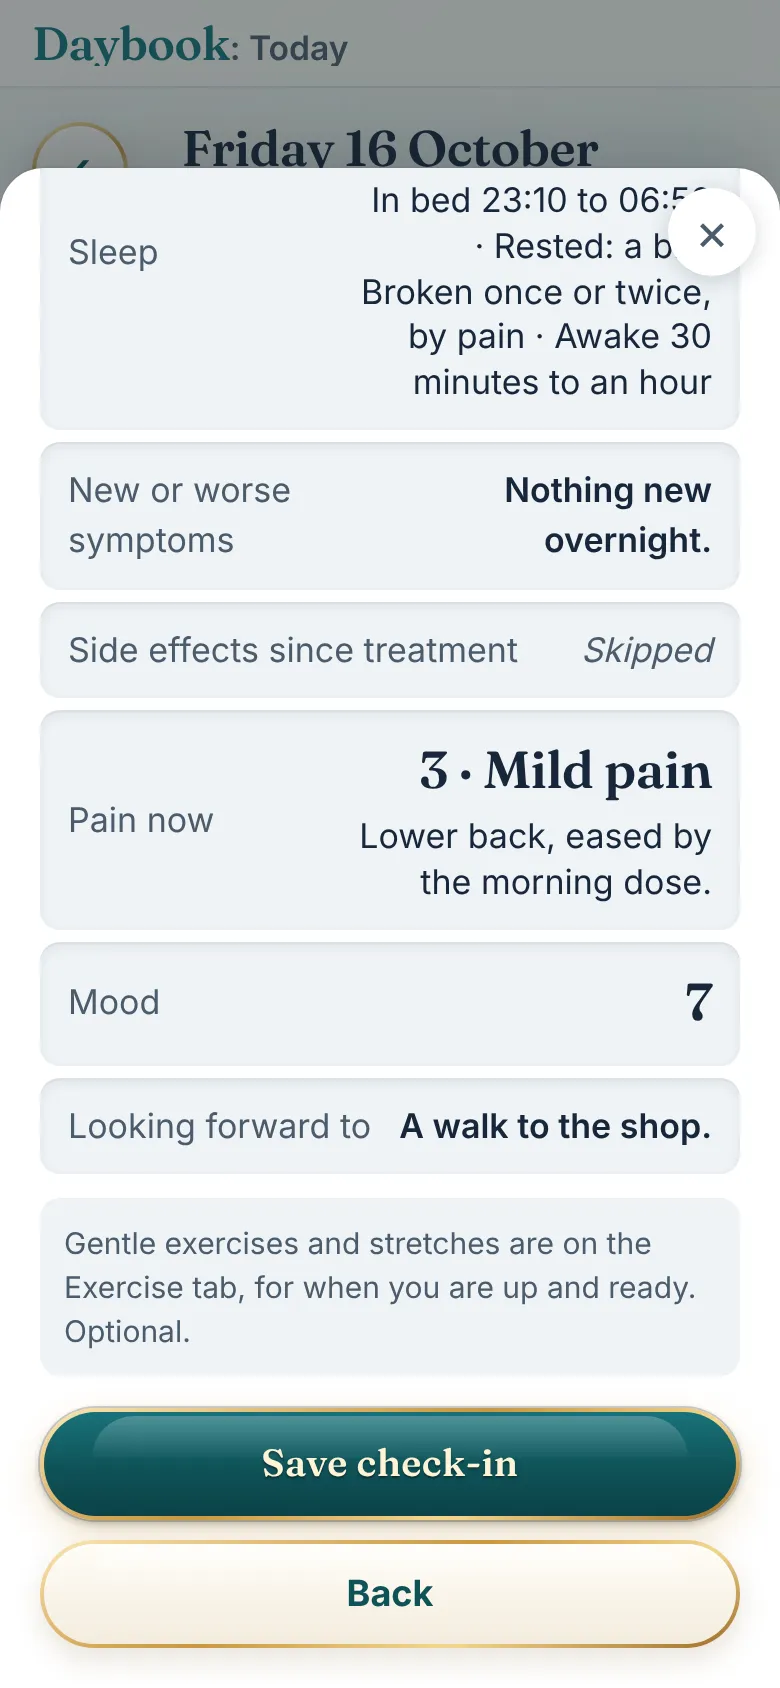
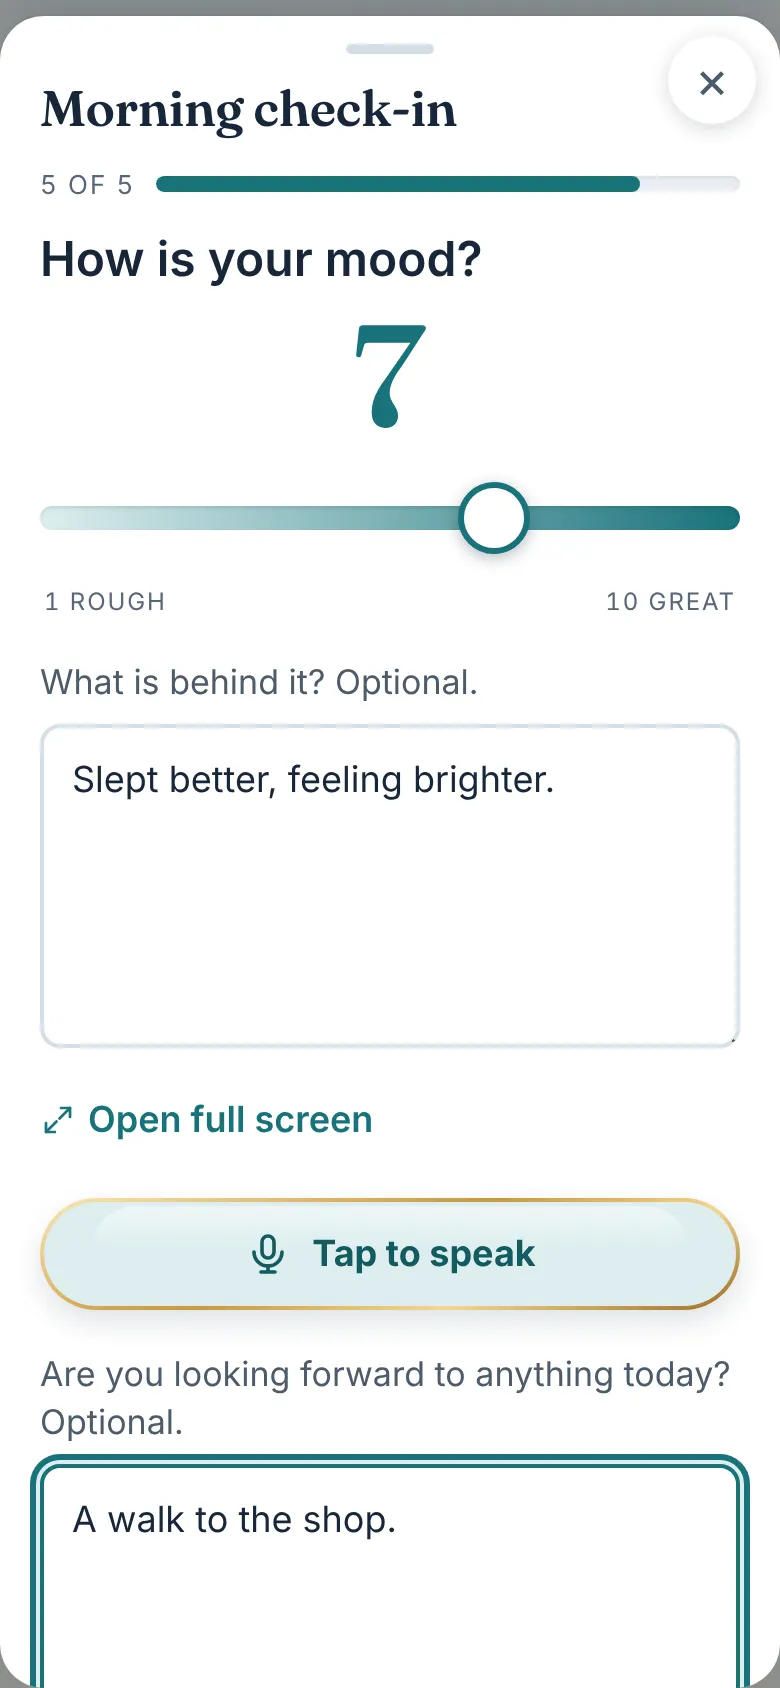
v366: looking forward asked on the morning mood screen, its own step removed
Claude-Session: https://claude.ai/code/session_019VY17MM1Pv81B6vJUTKu9b

Changed region(s): [[0.0, 0.0, 1.0, 0.5545], [0.0, 0.7085, 1.0, 1.0], [0.0615, 0.5545, 0.9538, 0.6777]]

diff --git a/scripts.js b/scripts.js
@@ -14,7 +14,7 @@ import {
   terminate, clearIndexedDbPersistence
 } from 'https://www.gstatic.com/firebasejs/10.12.2/firebase-firestore.js';
 
-const APP_VERSION = '365';
+const APP_VERSION = '366';
 /* The stage of the app (v132): 'Beta' until it is on the App Store and Google Play, then ''. Shown as a small pill on the
    opener and the four cover screens (never in the topbar, where it squeezed "Daybook: Treatment plan" off the end at 390px),
    after the version everywhere the version shows, and as one line on the App card and About
@@ -9424,10 +9424,11 @@ const CHECKIN_QUESTIONS = {
     /* only on the three days after a treatment session (v189): how bad each usual side effect is */
     { key: 'sidefx', kind: 'sidefx', q: 'Any side effects since treatment?' },
     { key: 'pain', kind: 'pain', nrs: true, q: 'Pain right now', low: '0 no pain', high: '10 worst imaginable', note: 'painNote' },
-    { key: 'mood', kind: 'slider', q: 'How is your mood?', low: '1 rough', high: '10 great', note: 'moodNote', noteQ: 'What is behind it? Optional.', notePh: 'e.g. a good night, a visitor coming, worried about tomorrow' },
+    { key: 'mood', kind: 'slider', q: 'How is your mood?', low: '1 rough', high: '10 great', note: 'moodNote', noteQ: 'What is behind it? Optional.', notePh: 'e.g. a good night, feeling flat, worried about tomorrow',
+      /* v366 (Mark): the day ahead asked on the same screen, so the two boxes are seen together and not answered twice */
+      note2: 'lookingForward', note2Q: 'Are you looking forward to anything today? Optional.', note2Ph: 'e.g. a walk in the garden, a visitor' },
     /* with Crohn's or colitis (v258): fasting today and which kind, one tap; asked about the day ahead, before what it holds */
-    { key: 'fast', kind: 'fast', pack: 'ibd', q: 'Fasting today?' },
-    { key: 'lookingForward', kind: 'text', q: 'What are you looking forward to today?', ph: 'e.g. a walk in the garden, a visitor' }
+    { key: 'fast', kind: 'fast', pack: 'ibd', q: 'Fasting today?' }
   ],
   evening: [
     /* the body first, then the words, then mood as the last score beside one good thing (v147, as the morning in v146) */
@@ -9602,7 +9603,7 @@ function nrsNoun(q) { return q && q.nrs === 'sickness' ? 'sickness' : q && q.nrs
    painNote / worstPainNote, shown after the score everywhere it shows, and in Notes for the team as a note. */
 const CHECKIN_NOTE_Q = 'Where is it, or anything else? Optional.';
 const CHECKIN_NOTE_PH = 'e.g. lower back, worse when I stand';
-function checkinNoteKeys(slot) { return (CHECKIN_QUESTIONS[slot] || []).filter((q) => q.note).map((q) => q.note); }
+function checkinNoteKeys(slot) { return (CHECKIN_QUESTIONS[slot] || []).flatMap((q) => [q.note, q.note2]).filter(Boolean); }
 /* Outside the gut (v145): joints, eyes, skin, mouth and, for Crohn's, around the bottom. Stored on the evening
    check-in as outside: [keys] ([] for none of these, null when skipped); asked when none was answered in the six days before. */
 const OUTSIDE_GUT = [
@@ -9778,10 +9779,12 @@ function checkinCard(c, inEntry) {
     else {
       const empty = v == null;
       const words = (q.note && c[q.note]) || (q.legacyNote && c[q.legacyNote]) || '';
+      const words2 = q.note2 && c[q.note2] ? CHECKIN_LABELS[q.note2] + ': ' + c[q.note2] : '';
       const nightLine = q.kind === 'sleep' ? nightSummary(c.night) : '';
       node = h('dd', { class: 'cc-v' + (empty && !nightLine ? ' is-empty' : ' is-num') }, empty ? (nightLine ? '' : 'Skipped') : v + '/10' + (q.nrs ? ' \u00b7 ' + painBandWord(v, nrsNoun(q)) : '') + (q.kind === 'sleep' && c.sleepHours != null ? ' \u00b7 ' + c.sleepHours + ' h' : ''),
         nightLine ? h('span', { class: 'vnote', text: nightLine }) : null,
-        words ? h('span', { class: 'vnote', text: words }) : null);
+        words ? h('span', { class: 'vnote', text: words }) : null,
+        words2 ? h('span', { class: 'vnote', text: words2 }) : null);
     }
     return h('div', { class: 'cc-row' }, h('dt', { class: 'cc-k', text: CHECKIN_LABELS[q.key] || q.key }), node);
   });
@@ -10181,7 +10184,7 @@ function openCheckin(slot, initialDay) {
       } else {
         const sl = sliderBlock(q, answers[q.key]);
         wrap.append(...sl.nodes);
-        let night = null, noteBox = null;
+        let night = null, noteBox = null, noteBox2 = null;
         if (q.kind === 'sleep') {
           night = nightBlock(answers.night, { tracker: isTrackerNight(nightEntry) ? nightEntry : null, ibd: packOn('ibd') });
           wrap.append(night.el);
@@ -10192,6 +10195,11 @@ function openCheckin(slot, initialDay) {
           noteBox.value = answers[q.note] || '';
           wrap.append(h('div', { class: 'wiz-note' }, h('p', { class: 'wiz-hint', text: q.noteQ || CHECKIN_NOTE_Q }), noteBox, speakButton(noteBox) || ''));
         }
+        if (q.note2) {
+          noteBox2 = h('textarea', { rows: '2', placeholder: q.note2Ph || '', 'aria-label': q.note2Q });
+          noteBox2.value = answers[q.note2] || '';
+          wrap.append(h('div', { class: 'wiz-note' }, h('p', { class: 'wiz-hint', text: q.note2Q }), noteBox2, speakButton(noteBox2) || ''));
+        }
         getVal = () => {
           if (night) {
             answers.night = night.value();
@@ -10201,6 +10209,7 @@ function openCheckin(slot, initialDay) {
             if (packOn('ibd') && answers.night && (answers.night.toilet != null || answers.night.broken === 'no')) answers.nightToilet = answers.night.broken === 'no' ? 0 : Number(answers.night.toilet);
           }
           if (noteBox) answers[q.note] = noteBox.value.trim();
+          if (noteBox2) answers[q.note2] = noteBox2.value.trim();
           return sl.value();
         };
       }
@@ -10223,11 +10232,12 @@ function openCheckin(slot, initialDay) {
         let skipped = q.kind === 'text' ? !v : v == null;
         let shown = skipped ? 'Skipped' : (q.kind === 'ticks' ? outsideText(v) : q.kind === 'taps' ? wbText(v) : q.kind === 'own' ? ownText(v) : q.kind === 'scale' ? scaleText(q, v) : q.kind === 'fast' ? fastText(v) : q.kind === 'sidefx' ? fxText(v) : q.kind === 'text' ? v : String(v) + (q.nrs ? ' · ' + painBandWord(v, nrsNoun(q)) : '') + (q.kind === 'sleep' && answers.sleepHours != null ? ' · ' + answers.sleepHours + ' h' : ''));
         const words = q.note && answers[q.note] ? h('span', { class: 'vnote', text: answers[q.note] }) : null;
+        const words2 = q.note2 && answers[q.note2] ? h('span', { class: 'vnote', text: CHECKIN_LABELS[q.note2] + ': ' + answers[q.note2] }) : null;
         const nightLine = q.kind === 'sleep' && nightSummary(answers.night) ? h('span', { class: 'vnote', text: nightSummary(answers.night) }) : null;
         if (nightLine && skipped) { skipped = false; shown = ''; }
         list.append(h('li', null, h('button', { type: 'button', onclick: () => { dir = -1; step = i; fromReview = true; render(); } },
           h('span', { class: 'k', text: CHECKIN_LABELS[q.key] }),
-          h('span', { class: 'v' + (skipped ? ' is-skipped' : (q.kind === 'text' || q.kind === 'ticks' || q.kind === 'taps' || q.kind === 'own' || q.kind === 'scale' || q.kind === 'fast' || q.kind === 'sidefx' ? '' : ' is-num')) }, shown, nightLine, words))));
+          h('span', { class: 'v' + (skipped ? ' is-skipped' : (q.kind === 'text' || q.kind === 'ticks' || q.kind === 'taps' || q.kind === 'own' || q.kind === 'scale' || q.kind === 'fast' || q.kind === 'sidefx' ? '' : ' is-num')) }, shown, nightLine, words, words2))));
       });
       wrap.append(list);
       if (slot === 'morning' && !state.readOnly) wrap.append(h('p', { class: 'wiz-signpost', text: 'Gentle exercises and stretches are on the Exercise tab, for when you are up and ready. Optional.' }));

diff --git a/tools/guide_shots.js b/tools/guide_shots.js
@@ -95,8 +95,8 @@ const QUALITY = 0.8;
   await shot('Pain right now, from 0 no pain to 10 worst imaginable: as you slide it says mild, moderate or severe. Where it is goes in the box underneath.', '#sheet-body .pain-key');
   await page.click('#sheet-body .btn-next'); await settle();
   await slider('#sheet-body input[type="range"]', 7);
-  await page.click('#sheet-body .btn-next'); await settle();
-  await page.fill('#sheet-body textarea', 'A walk to the shop.');
+  { const boxes = page.locator('#sheet-body .wiz-note textarea'); await boxes.nth(0).fill('Slept better, feeling brighter.'); await boxes.nth(1).fill('A walk to the shop.'); } await settle(200);
+  await shot('Mood last, with what is behind it and anything you are looking forward to today, both on the one screen.', '#sheet-body .wiz-note .wiz-hint');
   await page.click('#sheet-body .btn-next'); await settle();
   await shot('The review: every answer, tap one to change it, then Save.', '#sheet-body .btn-primary');
   await page.click('#sheet-body .btn-primary'); await settle(700);

diff --git a/index.html b/index.html
@@ -19,7 +19,7 @@
   <link rel="preconnect" href="https://fonts.googleapis.com">
   <link rel="preconnect" href="https://fonts.gstatic.com" crossorigin>
   <link href="https://fonts.googleapis.com/css2?family=Fraunces:opsz,wght@9..144,500;9..144,600;9..144,700&family=Inter:wght@400;500;600;700&display=swap" rel="stylesheet">
-  <link rel="stylesheet" href="styles.css?v=365">
+  <link rel="stylesheet" href="styles.css?v=366">
 </head>
 <body>
   <a class="skip-link" href="#main">Skip to content</a>
@@ -1207,6 +1207,6 @@
   </div>
 
   <script src="config.js"></script>
-  <script type="module" src="scripts.js?v=365"></script>
+  <script type="module" src="scripts.js?v=366"></script>
 </body>
 </html>

diff --git a/CLAUDE.md b/CLAUDE.md
@@ -60,6 +60,9 @@ Mark: Trends was lost under the report cards ("I've never actually scrolled down
 - **Trends charts draw once, as they come into view** (Mark: "animated as you scrolled over them, just once, from start to end of week ... over a couple of seconds", like the old treatment chart): `makeChart()` holds each chart (`chartPending`) until an IntersectionObserver sees 35% of its canvas, then draws it; lines fill point by point over `CHART_DRAW_MS` (2,000 ms, `drawIn()`), bars rise in turn left to right over the same time. Once a chart has played (`chartPlayed`, for the session) a redraw (a new reading, another range) appears at once; reduced motion draws everything at once.
 - Tested in the scratchpad's `h/t70.cjs` (the X where it was at the top, still on screen and on top at the foot of Privacy, closing it; a chart lower down not drawn until scrolled to, then animated, then redrawn with no animation; no page errors; 390 light and 320 dark), `h/t64`, `h/t67` and `h/t68`.
 
+## Looking forward on the morning mood screen (v366, 31 October 2026)
+Mark: the morning's "What is behind it?" under the mood score and the next screen, "What are you looking forward to today?", drew the same answer twice. Asked, he kept What is behind it ("we need a way to explain the mood") and put the looking-forward question on the same screen: the morning mood step now has two boxes, **What is behind it? Optional.** (`moodNote`, its example no longer mentions a visitor) and **Are you looking forward to anything today? Optional.** (`lookingForward`, each with Tap to speak), and the separate looking-forward step is gone, so the morning is one screen shorter. A question may carry `note2`, `note2Q` and `note2Ph` beside `note` (`checkinNoteKeys()` returns both, so saving, the no-change check and the kept drafts follow); the review and the card show it under the score as "Looking forward to: ...". The same fields are stored, so saved check-ins read as before. The Guide's check-in topic has a frame of the mood screen (eight frames), retaken and copied to the website. Tested in the scratchpad's `h/t88.cjs` (the two boxes and their words, the placeholder, mood as the last step, the review and card, what is saved, 390 light and 320 dark, no page errors).
+
 ## Things I track and symptoms on Trends (v365, 30 October 2026)
 The reviewers' chart suggestions, built as Trends cards only (Mark approved the mock-up and said "Do your recommendations": one card per symptom, and squares for a yes or no). `buildOwnCards(entries, from)` (before Chart.js loads, so the tables and the squares work offline) and `drawOwnCharts()` (after it) fill `#charts-own`, after the Bowels card on the Trends side of Reports:
 - **One card per tracked thing** answered in the period (from the evening check-ins' `own`, in the Things I track order): a **number** as bars a day with the average and the most ("2.3 cups a day on average", "4 most, 26 Oct"); a **score** as a line on 0 to 10 with the average and the highest and "No level is judged: the number is yours."; a **yes or no** as one square a day (`.yn`, seven a row, green Yes 5.7:1, grey No, a grey ? for an evening not answered, the weekday under each) with "4 of 6 days, yes".
